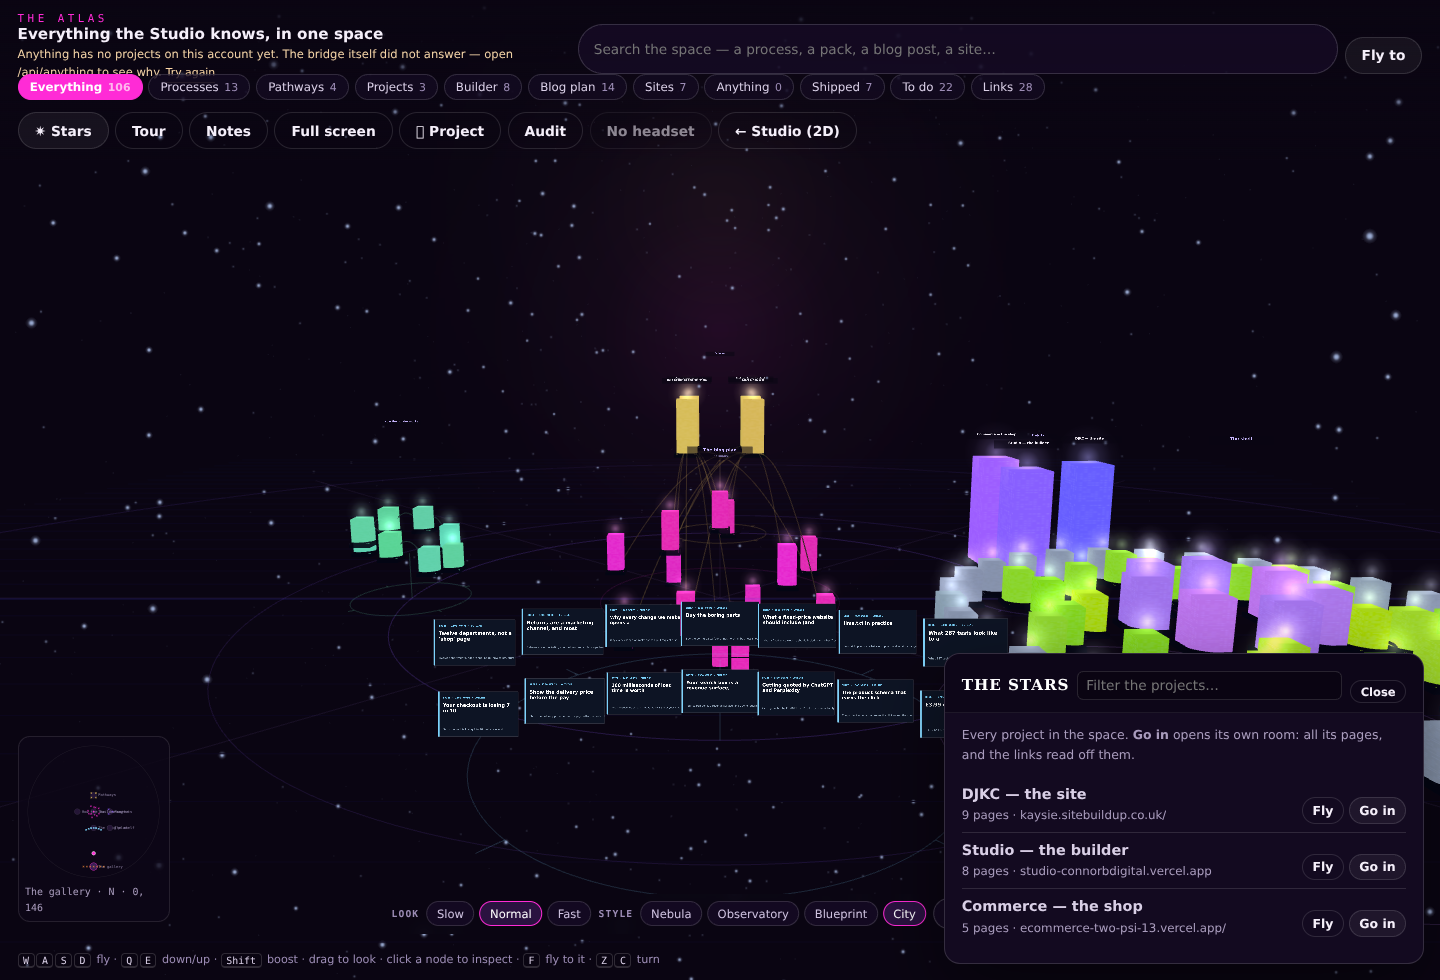
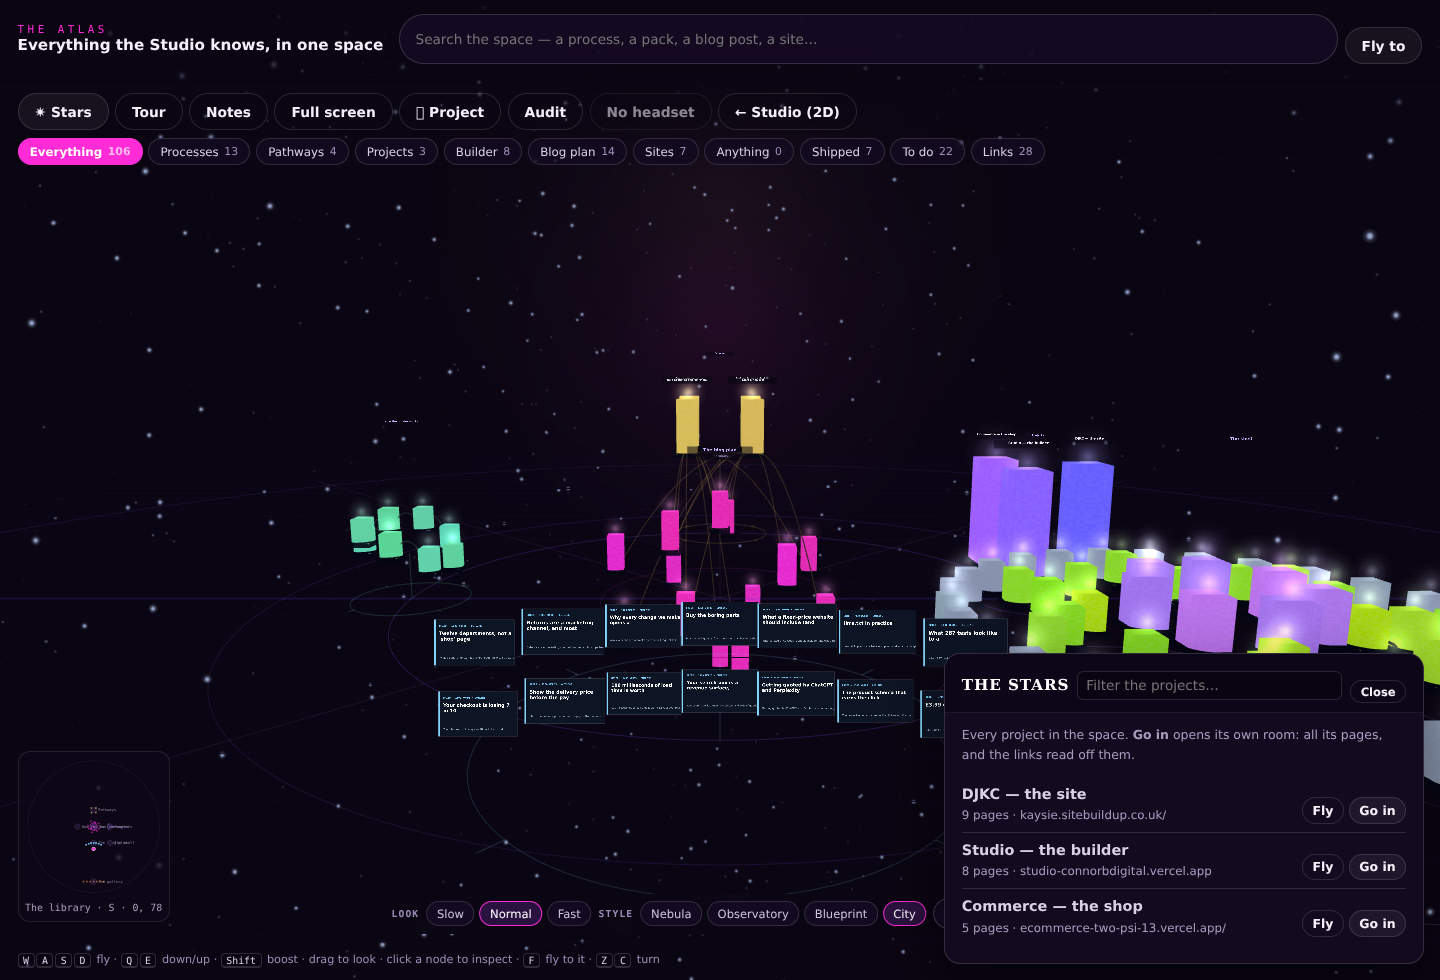
The City's head is one measured column
The title, search, buttons, chips and results were five absolutely positioned
boxes at guessed offsets, so a note under the title or a wrapped button row put
the chips underneath the search bar. They are now in flow inside .atlas-head,
which measures itself into --atlas-head; the detail card, the project sheet, the
audit sheet and the phone help line sit at calc(var(--atlas-head) + .4rem).

Also: the head takes no pointer events of its own (drag from the top strip now
works), the results float under the bar instead of growing it, and the button
row scrolls sideways rather than breaking labels across lines.

diff --git a/studio/src/styles.css b/studio/src/styles.css
@@ -235,11 +235,26 @@ button.btn, a.btn {
 .atlas-panel-card .btn { font-size: .6em; padding: .7em 1.2em; }
 
 .atlas-hud { position: absolute; z-index: 4; }
-.atlas-top {
+
+/* The head is one column: title, search, actions, chips, results. Its children
+   are in flow, so none of them can land on another however long the title's
+   note gets. `--atlas-head` is measured from the DOM (see Atlas.tsx) and every
+   panel below is placed under it rather than at a guessed offset. */
+.atlas-head {
   top: 0; left: 0; right: 0;
+  z-index: 6;
+  display: flex; flex-direction: column; gap: .5rem;
+  padding: .9rem 0 0;
+  background: linear-gradient(180deg, #0a0512e6 0%, #0a0512a8 62%, #0a051200 100%);
+  pointer-events: none;
+}
+.atlas-head > * { pointer-events: auto; }
+/* The bar itself is in flow; the results float under it, so opening a search
+   does not make the head taller and dim any more of the room than the bar. */
+.atlas-head > .atlas-top, .atlas-head > .atlas-filters { position: static; }
+.atlas-top {
   display: flex; align-items: center; gap: 1rem;
-  padding: .9rem 1.1rem;
-  background: linear-gradient(180deg, #0a0512f2, #0a051200);
+  padding: 0 1.1rem;
   flex-wrap: wrap;
 }
 .atlas-title strong { display: block; font-size: .95rem; }
@@ -250,10 +265,16 @@ button.btn, a.btn {
   color: var(--ink); padding: .55rem .95rem; font: inherit; font-size: .85rem;
 }
 .atlas-search input:focus-visible { outline: 2px solid var(--pink); outline-offset: 1px; }
-.atlas-actions { display: flex; gap: .4rem; }
+/* One row of buttons, never a word-per-line column: if the row is wider than
+   the screen it scrolls, the way the chips do. */
+.atlas-actions {
+  display: flex; gap: .4rem; flex-wrap: nowrap;
+  overflow-x: auto; scrollbar-width: none; -webkit-overflow-scrolling: touch;
+}
+.atlas-actions::-webkit-scrollbar { display: none; }
+.atlas-actions .btn { white-space: nowrap; flex: none; }
 
 .atlas-filters {
-  top: 4.6rem; left: 0; right: 0;
   display: flex; gap: .35rem; padding: 0 1.1rem; flex-wrap: wrap;
 }
 .chip {
@@ -266,10 +287,11 @@ button.btn, a.btn {
 .chip.is-on span { color: #ffb8ee; }
 
 .atlas-results {
-  top: 7.4rem; left: 1.1rem; width: min(26rem, calc(100% - 2.2rem));
+  position: absolute; top: calc(100% + .15rem); left: 1.1rem;
+  width: min(26rem, calc(100% - 2.2rem));
   display: grid; gap: .25rem;
   background: #0d0618ee; border: 1px solid #ffffff1f; border-radius: 12px; padding: .45rem;
-  max-height: 46vh; overflow: auto;
+  max-height: min(46vh, 26rem); overflow: auto;
 }
 .atlas-results button {
   display: flex; align-items: center; gap: .55rem; text-align: left;
@@ -284,7 +306,7 @@ button.btn, a.btn {
 .swatch { width: .6rem; height: .6rem; border-radius: 50%; flex: none; box-shadow: 0 0 10px currentColor; }
 
 .atlas-detail {
-  top: 7.4rem; right: 1.1rem; width: min(23rem, calc(100% - 2.2rem));
+  top: calc(var(--atlas-head, 7.4rem) + .4rem); right: 1.1rem; width: min(23rem, calc(100% - 2.2rem));
   max-height: calc(100vh - 9rem); overflow: auto;
   background: #0d0618f2; border: 1px solid #ffffff22; border-radius: 14px; padding: 1rem 1.1rem 1.2rem;
   box-shadow: 0 20px 60px #00000060;
@@ -401,9 +423,12 @@ button.btn, a.btn {
 /* -------------------------------------------------------------- phones */
 
 @media (max-width: 720px), (pointer: coarse) and (max-width: 900px) {
+  .atlas-head {
+    gap: .35rem; padding: .55rem 0 0;
+    background: linear-gradient(180deg, #0a0512f7 58%, #0a0512a8 80%, #0a051200);
+  }
   .atlas-top {
-    gap: .5rem; padding: .55rem .7rem .4rem; align-items: flex-start;
-    background: linear-gradient(180deg, #0a0512f7 62%, #0a051200);
+    gap: .5rem; padding: 0 .7rem; align-items: flex-start;
   }
   /* One compact bar: the name on the left, the actions on the right, then
      the search. The long sentence belongs on a desktop, not a phone. */
@@ -416,14 +441,14 @@ button.btn, a.btn {
   .atlas-actions .btn { font-size: .68rem; padding: .35rem .6rem; }
 
   .atlas-filters {
-    top: 7.1rem; flex-wrap: nowrap; overflow-x: auto;
-    padding: 0 .7rem .35rem; gap: .3rem;
+    flex-wrap: nowrap; overflow-x: auto;
+    padding: 0 .7rem .15rem; gap: .3rem;
     scrollbar-width: none; -webkit-overflow-scrolling: touch;
   }
   .atlas-filters::-webkit-scrollbar { display: none; }
   .chip { flex: none; font-size: .7rem; padding: .3rem .6rem; }
 
-  .atlas-results { top: 8.6rem; left: .7rem; width: calc(100% - 1.4rem); max-height: 38vh; }
+  .atlas-results { left: .7rem; width: calc(100% - 1.4rem); max-height: 38vh; }
 
   .atlas-map { width: 5.4rem; left: auto; right: .7rem; bottom: 13.4rem; padding: .25rem; }
   .atlas-map p { font-size: .5rem; line-height: 1.35; }
@@ -447,7 +472,7 @@ button.btn, a.btn {
   .atlas-detail-actions .btn { font-size: .74rem; padding: .45rem .8rem; }
 
   /* On a phone the dock is the instructions; only messages earn screen space. */
-  .atlas-help { top: 8.4rem; bottom: auto; left: .7rem; right: .7rem; max-width: 62%; }
+  .atlas-help { top: calc(var(--atlas-head, 8.4rem) + .4rem); bottom: auto; left: .7rem; right: .7rem; max-width: 62%; }
   .atlas-help p { font-size: .68rem; }
   .atlas.is-touch .atlas-help p:first-child { display: none; }
   .atlas-tour { bottom: calc(9.4rem + env(safe-area-inset-bottom)); left: .5rem; right: .5rem; width: auto; transform: none; }
@@ -462,7 +487,7 @@ button.btn, a.btn {
 
 .atlas-panel-sheet {
   z-index: 6;
-  top: 7.6rem; left: 1.1rem; width: min(30rem, calc(100% - 2.2rem));
+  top: calc(var(--atlas-head, 7.6rem) + .4rem); left: 1.1rem; width: min(30rem, calc(100% - 2.2rem));
   max-height: min(72vh, 40rem);
   overflow-y: auto; overflow-x: hidden;
   overscroll-behavior: contain;
@@ -572,7 +597,7 @@ button.btn, a.btn {
 
 .atlas-scan {
   z-index: 6;
-  top: 7.6rem; right: 1.1rem; width: min(34rem, calc(100% - 2.2rem));
+  top: calc(var(--atlas-head, 7.6rem) + .4rem); right: 1.1rem; width: min(34rem, calc(100% - 2.2rem));
   max-height: calc(100vh - 10.4rem);
   display: flex; flex-direction: column;
   background: #0d0618f7; border: 1px solid #ffffff24; border-radius: 16px;
@@ -589,8 +614,8 @@ button.btn, a.btn {
 .atlas-scan-actions .btn { font-size: .74rem; padding: .42rem .8rem; }
 
 @media (max-width: 720px) {
-  .atlas-panel-sheet { top: 8.6rem; left: .6rem; right: .6rem; width: auto; max-height: calc(100vh - 12rem); }
-  .atlas-scan { top: 8.6rem; left: .6rem; right: .6rem; width: auto; max-height: calc(100vh - 11rem); }
+  .atlas-panel-sheet { top: calc(var(--atlas-head, 8.6rem) + .3rem); left: .6rem; right: .6rem; width: auto; max-height: calc(100vh - 12rem); }
+  .atlas-scan { top: calc(var(--atlas-head, 8.6rem) + .3rem); left: .6rem; right: .6rem; width: auto; max-height: calc(100vh - 11rem); }
   .atlas-scan-frame { min-height: 12rem; }
 }
 
@@ -837,7 +862,10 @@ button.btn, a.btn {
   .atlas-feel { display: none; }
 }
 
-.atlas-note { margin: .15rem 0 0; font-size: .72rem; color: #f3d3a6; max-width: 34rem; }
+.atlas-note {
+  margin: .15rem 0 0; font-size: .72rem; color: #f3d3a6; max-width: 34rem;
+  display: -webkit-box; -webkit-line-clamp: 2; -webkit-box-orient: vertical; overflow: hidden;
+}
 .atlas-note-retry {
   font: inherit; font-size: .68rem; color: #ffd9a8; background: none; cursor: pointer;
   border: 0; border-bottom: 1px solid #ffd9a866; padding: 0 0 .05rem;

diff --git a/studio/src/components/Atlas.tsx b/studio/src/components/Atlas.tsx
@@ -213,6 +213,9 @@ export function Atlas({ onClose }: { onClose?: () => void }) {
   const [hovering, setHovering] = useState(false);
   const [tour, setTour] = useState<number | null>(null);
   const [space, setSpace] = useState<AtlasNode | null>(null);
+  /* The head measures itself so everything below it can be placed under it
+     rather than under a number that was true at one width with no note. */
+  const headRef = useRef<HTMLDivElement>(null);
   /* `#atlas/stars` is a link you can send someone straight to the list. */
   const [stars, setStars] = useState<string | null>(() =>
     ["atlas/stars", "stars"].includes(window.location.hash.replace(/^#/, "")) ? "" : null
@@ -311,6 +314,22 @@ export function Atlas({ onClose }: { onClose?: () => void }) {
     document.addEventListener("fullscreenchange", sync);
     sync();
     return () => document.removeEventListener("fullscreenchange", sync);
+  }, []);
+
+  useEffect(() => {
+    const node = headRef.current;
+    if (!node || typeof ResizeObserver === "undefined") return;
+    const apply = () => {
+      const height = Math.ceil(node.getBoundingClientRect().height);
+      if (height > 0) document.documentElement.style.setProperty("--atlas-head", `${height}px`);
+    };
+    apply();
+    const observer = new ResizeObserver(apply);
+    observer.observe(node);
+    return () => {
+      observer.disconnect();
+      document.documentElement.style.removeProperty("--atlas-head");
+    };
   }, []);
 
   useEffect(() => {
@@ -716,7 +735,12 @@ export function Atlas({ onClose }: { onClose?: () => void }) {
         <div ref={cssHost} className="atlas-css-host" />
       </div>
 
-      <div className="atlas-hud atlas-top">
+      {/* The head: name, search, actions, the chips, and the search results, in
+          one column. Every one of them used to be placed at a guessed offset from
+          the top of the screen, so a long note under the title pushed the chips
+          up underneath the search. In flow they cannot overlap, at any width. */}
+      <div className="atlas-hud atlas-head" ref={headRef}>
+      <div className="atlas-top">
         <div className="atlas-title">
           <p className="eyebrow">The Atlas</p>
           <strong>Everything the Studio knows, in one space</strong>
@@ -862,6 +886,8 @@ export function Atlas({ onClose }: { onClose?: () => void }) {
           ))}
         </div>
       )}
+
+      </div>
 
       {/* The feel tray: how a look turns you, which look the room wears, and turbo
           as a button rather than a key you have to remember. */}

diff --git a/docs/studio-project-space-2026-11-20.md b/docs/studio-project-space-2026-11-20.md
@@ -12,6 +12,7 @@ Four ways in, in the order most people meet them:
 | **The City** tab | The tab used to read *Atlas (3D)*; same room, its own name now |
 | **Enter the City** button | Top right of the Studio, on every tab |
 | A link | `#city` or `#atlas` opens the City **without the gate** — the gate is a front door, not a wall in front of an open room |
+| A link to a project | `#atlas/project-djkc` lands **inside that project's room**. `Esc` drops you into the City with the project still selected |
 
 The City's look is now **City** by default (it was Nebula). The other three —
 Nebula, Observatory, Blueprint — are still in the style row at the bottom, and
@@ -61,6 +62,32 @@ One screen, cut into the City: a circle is a page, a line is a link.
 
 Nothing behind a form, a login or a script is visible, and the room says so in a
 line at the bottom rather than pretending the map is complete.
+
+## The City's head now measures itself
+
+The bar at the top of the City — name, search, buttons, the chips, the results —
+used to be five things placed at offsets guessed from the top of the screen
+(`top: 4.6rem` for the chips, `7.4rem` for the results, and so on). One extra
+line under the title, or a width where the buttons wrapped, and the chips came
+up underneath the search: the search bar sat **over the buttons**.
+
+It is now one column. `Atlas.tsx` puts the title, search, actions, chips and
+results inside `.atlas-head`, everything in flow, so nothing can land on
+anything else at any width. The same element is measured with a
+`ResizeObserver` and publishes `--atlas-head`; the detail card, the add-project
+sheet, the audit sheet and the phone's help line are placed at
+`calc(var(--atlas-head) + .4rem)` instead of a number that was true once. The
+results float under the bar rather than growing it, so a search does not dim any
+more of the room than the bar already does.
+
+Two smaller things came out of the same fix: the head is `pointer-events: none`
+with its children taking them, so dragging the world from the empty part of the
+top strip works; and the button row never breaks a label across lines — it
+scrolls sideways on a phone the way the chips do.
+
+Checked in headless Chromium at 1440, 1100, 860 and 390 wide: no intersection
+between the search, the buttons, the chips, the note and the results at any of
+them, and the detail card and audit sheet sit below the measured bar.
 
 ## What it cost, and what it still cannot do
 

diff --git a/studio/README.md b/studio/README.md
@@ -116,6 +116,8 @@ The space is a compass, not a scatter. Districts sit on arms of **equal length**
 
 On a phone it is a different instrument rather than a shrunken one: a thumbstick, lift and boost pads, pinch to dolly, drag to look, a scrollable chip rail and the detail card as a bottom sheet. Portrait gets its own field of view and an overview start pose. Either way there is a **Tour** (six stops, one per district), deep links (`#atlas/<node id>`, with **Copy link** on every card), search that pulses its matches in the world, a map whose districts are buttons, and a camera position remembered between visits.
 
+**The head.** The top of the City is one measured column, not five guessed offsets: title, search, action buttons, filter chips and the search results all sit in flow inside `.atlas-head`, so a long note or a narrow window can no longer push the chips underneath the search bar. The element is measured with a `ResizeObserver` and publishes `--atlas-head`; the detail card and the sheets are placed at `calc(var(--atlas-head) + .4rem)`. The results float under the bar instead of growing it, and the button row scrolls sideways rather than breaking a label across two lines.
+
 **Getting in, and the stars.** Four ways into the City: the gate's **Enter the City →**, the **The City** tab, the **Enter the City** button in the header on every tab, and a link — `#city`, `#stars` or `#atlas/<node>` skips the gate, because a room that is already open should not need a key at the door. The look is **City** by default now (Nebula, Observatory and Blueprint remain in the style row and the choice is remembered).
 
 **✷ Stars** at the top of the HUD lists every project — the recorded ones and your own — with its page count, its address, **Fly** (move the camera there) and **Go in**. `#stars` is a link straight to it. Clicking a project star in the space does the same thing: a project is the one kind of node that opens its own room on the first click.
